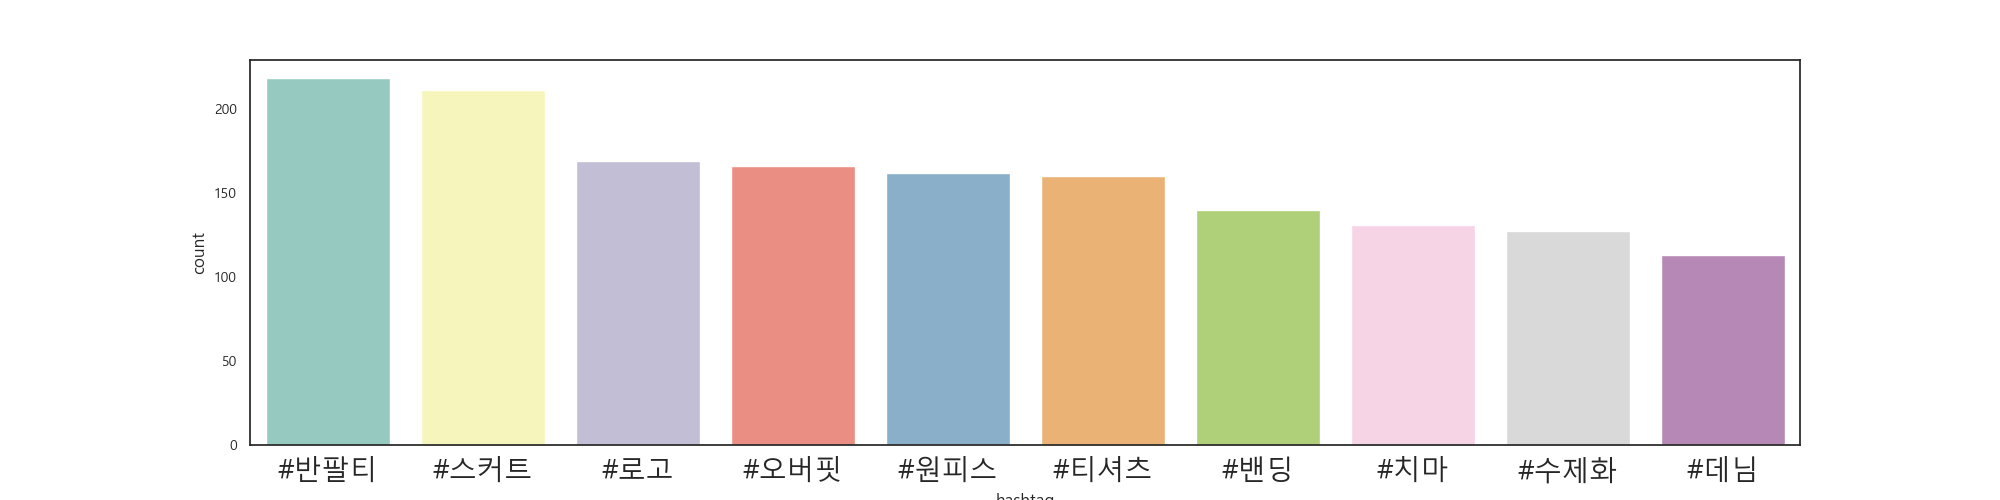
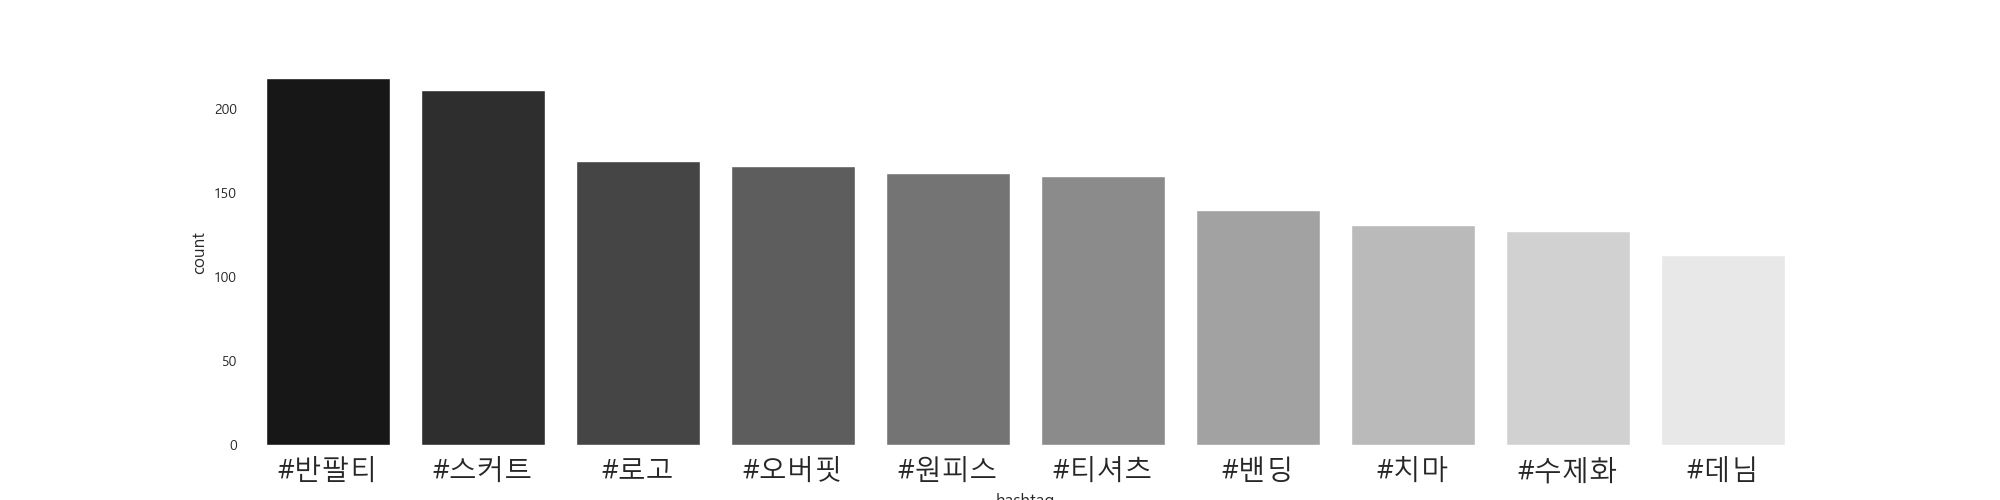
change tag_image

diff --git a/wearwhat/matplotlib.py b/wearwhat/matplotlib.py
@@ -59,8 +59,9 @@ def matplotlib_graph():
     figure, (axes1) = plt.subplots(nrows=1, ncols=1)
     figure.set_size_inches(20, 5)
 
-    sns.countplot(data=total_hash_df, x='hashtag', palette="Set3", ax=axes1,
+    sns.countplot(data=total_hash_df, x='hashtag', palette="gray", ax=axes1,
                   order=total_hash_df['hashtag'].value_counts().head(10).index)
+    sns.despine(left=True, bottom=True)
     # sns.countplot(data=top_hash_df, y='hashtag', palette="Set3", ax=axes1,
     #               order=top_hash_df['hashtag'].value_counts().head(5).index)
     # 경로 <--------저기 보이는 자신의 images 폴더로 넣어야됨
